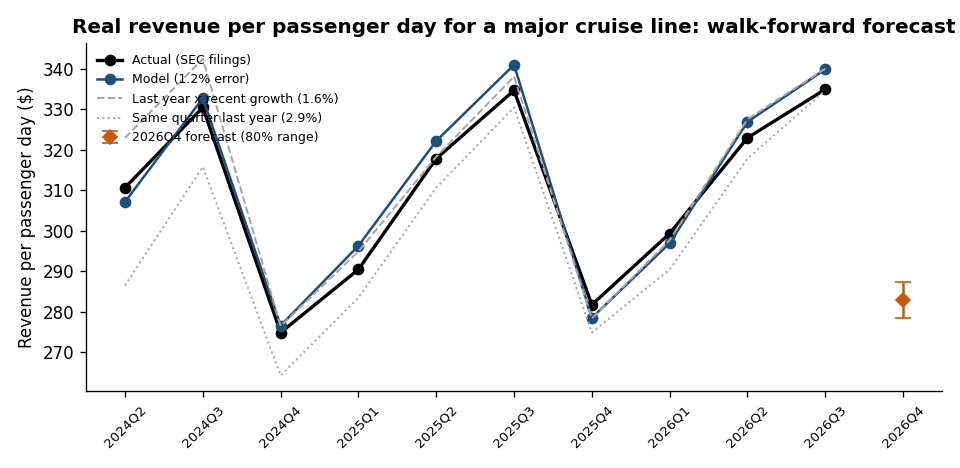
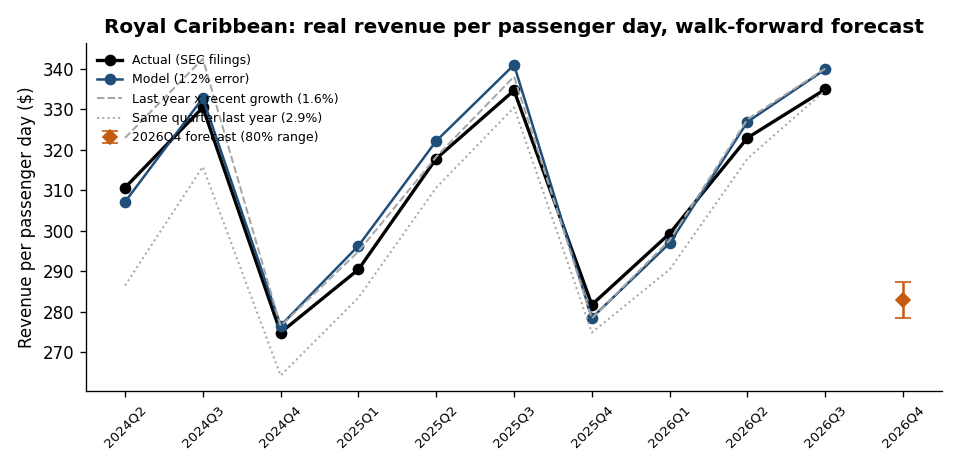
Cruise project: name the real data sources and companies
Adds a Where the data comes from section (Royal Caribbean, Carnival, Norwegian with SEC CIKs, SEC EDGAR/XBRL, BLS, University of Michigan), the build steps, sample rows and findings, plus the SEC Power BI page and calibration chart.

Changed region(s): [[0.0625, 0.0299, 1.0, 0.0897]]

diff --git a/project3.html b/project3.html
@@ -5,7 +5,7 @@
     <meta charset="UTF-8">
     <meta name="viewport" content="width=device-width, initial-scale=1.0">
     <meta http-equiv="X-UA-Compatible" content="ie=edge">
-    <meta name="description" content="Cruise cabin demand forecasting and a pricing A/B test on 510K synthetic bookings calibrated to real SEC filings, built with Python, XGBoost, SQL and Power BI. A project by Jonathan Velez.">
+    <meta name="description" content="Cruise revenue forecasting on real SEC data from Royal Caribbean, Carnival and Norwegian, plus demand forecasting and a pricing A/B test on 510K calibrated bookings, built with Python, XGBoost, SQL and Power BI. A project by Jonathan Velez.">
     <meta name="author" content="Jonathan Velez">
     <script>try{var t=localStorage.getItem('jv-theme');if(t)document.documentElement.setAttribute('data-theme',t);}catch(e){}</script>
     <title>Cruise Cabin Pricing &amp; Demand Forecasting | Jonathan Velez</title>
@@ -13,9 +13,9 @@
     <link rel="icon" href="favicon.svg" type="image/svg+xml">
     <meta property="og:type" content="website">
     <meta property="og:title" content="Cruise Cabin Pricing &amp; Demand Forecasting | Jonathan Velez">
-    <meta property="og:description" content="Cruise cabin demand forecasting and a pricing A/B test on 510K synthetic bookings calibrated to real SEC filings, built with Python, XGBoost, SQL and Power BI. A project by Jonathan Velez.">
+    <meta property="og:description" content="Cruise revenue forecasting on real SEC data from Royal Caribbean, Carnival and Norwegian, plus demand forecasting and a pricing A/B test on 510K calibrated bookings, built with Python, XGBoost, SQL and Power BI. A project by Jonathan Velez.">
     <meta property="og:url" content="https://jonathanwvelez.com/project3.html">
-    <meta property="og:image" content="https://jonathanwvelez.com/assets/img/cruise_error_by_horizon.png">
+    <meta property="og:image" content="https://jonathanwvelez.com/assets/img/cruise_real_forecast.png">
     <script>if(location.protocol==='http:'&&!/^(localhost|127\.0\.0\.1)$/.test(location.hostname)){location.replace('https://'+location.host+location.pathname+location.search+location.hash);}</script>
     <link rel="stylesheet" href="assets/css/color.css">
     <link href="https://fonts.googleapis.com/css?family=Roboto|Roboto+Mono|Inconsolata" rel="stylesheet">
@@ -115,40 +115,44 @@
                             <li>GitHub Actions</li>
                         </ul>
                     </div>
-                    <p>An end-to-end revenue management project for a cruise line. Cruise lines don't publish booking-level data, so the project generates about 510,000 synthetic bookings with seasonality, booking curves, dynamic pricing and cancellations, and calibrates them to real quarterly numbers from three major cruise lines' SEC filings. No real booking data is used, and the project isn't affiliated with any company.</p>
+                    <p>An end-to-end revenue management project for a cruise line, built on <strong>real public data from Royal Caribbean, Carnival and Norwegian</strong>. Ten years of their SEC filings drive a real-data forecast of Royal Caribbean's revenue per passenger day, and calibrate about 510,000 synthetic bookings. Cruise lines don't publish individual bookings, so the booking-level data is generated and tuned to match the real quarterly numbers. The project isn't affiliated with any of these companies.</p>
                     <h3>What it does</h3>
                     <ul class="article__list">
-                        <li>Pulls ten years of quarterly occupancy, passenger cruise days and revenue from three cruise lines' 10-Q and 10-K filings (SEC EDGAR), and tunes the synthetic data to match.</li>
-                        <li>Forecasts a major cruise line's <strong>real</strong> quarterly revenue per passenger day from its SEC filings plus BLS airfare prices, unemployment and University of Michigan consumer sentiment, tested one quarter at a time.</li>
-                        <li>Cleans the raw bookings with a pandas ETL pipeline (510,409 rows in, 509,320 out) and logs every data-quality rule it applies.</li>
+                        <li>Pulls <strong>102 quarters</strong> of real operating data (passengers, passenger cruise days, capacity, occupancy and revenue) from about 130 Royal Caribbean, Carnival and Norwegian 10-Q and 10-K filings on SEC EDGAR.</li>
+                        <li>Forecasts <strong>Royal Caribbean's real quarterly revenue per passenger day</strong> from those filings plus BLS airfare prices, the U.S. unemployment rate and University of Michigan consumer sentiment, tested one quarter at a time.</li>
+                        <li>Cleans the synthetic bookings with a pandas ETL pipeline (510,409 rows in, 509,320 out) and logs every data-quality rule it applies.</li>
                         <li>Answers reporting questions in SQL with DuckDB: occupancy, revenue per cabin, new vs. repeat guests, and price by booking window.</li>
                         <li>Forecasts final occupancy for every sailing and cabin category with XGBoost, tested on the most recent six months of sailings.</li>
                         <li>Runs a pricing A/B test with CUPED variance reduction and a power analysis.</li>
-                        <li>Presents everything in a 5-page Power BI dashboard, and reruns the whole pipeline every week with GitHub Actions.</li>
+                        <li>Presents everything in a 6-page Power BI dashboard, and reruns the whole pipeline every week with GitHub Actions.</li>
                     </ul>
                     <h3>Results</h3>
                     <ul class="article__list">
-                        <li>The synthetic load factor is <strong>within about 2 points of the real reported occupancy</strong> in every quarter: ships sail 107–112% full year-round, and seasonality shows up in price, not empty cabins.</li>
-                        <li>On real 2024–2026 quarters it never saw, the real-data forecast has <strong>1.2% error</strong>, vs. 1.6% for a trend baseline and 2.9% for same-quarter-last-year. Its settings are chosen only from earlier quarters, so the test never tuned the model.</li>
-                        <li><strong>Forecast error of 3.3% vs. 8.0%</strong> for the last-year-pace baseline, 58% lower. Six months out, it's 4.0% vs. 17.6%.</li>
-                        <li>The pricing test (+5% when a cabin category is at least 70% booked 60 days out) showed <strong>no significant lift</strong> (p = 0.43), so the recommendation is not to roll it out broadly.</li>
-                        <li>CUPED cut the test's variance by 93%.</li>
+                        <li>On real 2024&ndash;2026 quarters it never saw, the Royal Caribbean forecast has <strong>1.2% error</strong>, vs. 1.6% for a trend baseline and 2.9% for same-quarter-last-year. Its settings are chosen only from earlier quarters, so the test never tuned the model. <strong>Q4 2026 forecast: $283 per passenger day</strong> (80% range $278&ndash;$287).</li>
+                        <li><strong>Royal Caribbean's revenue per passenger day is up 27% since 2019</strong> ($244 &rarr; $310), while its occupancy stayed around 108&ndash;110%. Growth came from pricing, not from filling more cabins.</li>
+                        <li>The synthetic load factor is <strong>within about 2 points of Royal Caribbean's reported occupancy</strong> in every quarter (109.2% vs. 108.4% for the year).</li>
+                        <li><strong>Booking forecast error of 3.3% vs. 8.0%</strong> for the last-year-pace baseline, 58% lower. Six months out, it's 4.0% vs. 17.6%.</li>
+                        <li>The pricing test (+5% when a cabin category is at least 70% booked 60 days out) showed <strong>no significant lift</strong> (p = 0.43), so the recommendation is not to roll it out broadly. CUPED cut the test's variance by 93%.</li>
                     </ul>
                     <figure class="article__figure--chart">
+                        <img src="assets/img/cruise_real_forecast.png" alt="Chart: Royal Caribbean's real quarterly revenue per passenger day vs. the model's one-quarter-ahead forecasts and two baselines, 2024 to 2026, plus the Q4 2026 forecast" loading="lazy">
+                        <figcaption>Royal Caribbean: real revenue per passenger day vs. the model and two baselines, plus the Q4 2026 forecast</figcaption>
+                    </figure>
+                    <figure class="article__figure--chart">
+                        <img src="assets/img/cruise_powerbi_sec.jpg" alt="Power BI page: occupancy and revenue per passenger day by quarter for Royal Caribbean, Carnival and Norwegian, and the synthetic vs. real calibration" loading="lazy">
+                        <figcaption>Power BI: real SEC data for Royal Caribbean, Carnival and Norwegian, 2016&ndash;2026</figcaption>
+                    </figure>
+                    <figure class="article__figure--chart">
                         <img src="assets/img/cruise_powerbi_overview.jpg" alt="Power BI dashboard: cruise revenue overview with occupancy, load factor and seasonality" loading="lazy">
-                        <figcaption>Power BI dashboard: revenue overview</figcaption>
+                        <figcaption>Power BI: revenue overview of the booking-level data</figcaption>
                     </figure>
                     <figure class="article__figure--chart">
                         <img src="assets/img/cruise_seasonality.png" alt="Chart: cabins sold stay near full every month while price per cabin-night swings with the season" loading="lazy">
                         <figcaption>Ships stay nearly full all year; price carries the seasonality</figcaption>
                     </figure>
                     <figure class="article__figure--chart">
-                        <img src="assets/img/cruise_real_forecast.png" alt="Chart: real quarterly revenue per passenger day vs. the model's one-quarter-ahead forecasts and two baselines" loading="lazy">
-                        <figcaption>Real-data forecast vs. two simple baselines, plus the next-quarter forecast</figcaption>
-                    </figure>
-                    <figure class="article__figure--chart">
                         <img src="assets/img/cruise_error_by_horizon.png" alt="Bar chart of forecast error by days before sailing, model vs. baseline" loading="lazy">
-                        <figcaption>Forecast error by how far ahead the forecast is made</figcaption>
+                        <figcaption>Booking forecast error by how far ahead the forecast is made</figcaption>
                     </figure>
                     <figure class="article__figure--chart">
                         <img src="assets/img/cruise_pace_example.png" alt="Line chart of booking pace for one sailing compared with last year" loading="lazy">
@@ -158,8 +162,83 @@
                         <img src="assets/img/cruise_experiment_lift.png" alt="Chart of the pricing A/B test lift with confidence intervals" loading="lazy">
                         <figcaption>Pricing A/B test result</figcaption>
                     </figure>
+
+                    <h3 id="data">Where the data comes from</h3>
+                    <p>Every number below is public and can be traced to its filing. The full write-up, with every source URL, field definition and processing step, is in <a href="https://github.com/JonathanVelez-code/cruise-pricing-forecast/blob/main/docs/DATA_SOURCES.md" target="_blank" rel="noopener noreferrer">DATA_SOURCES.md</a> on GitHub.</p>
+                    <h4>Companies</h4>
+                    <div class="data-table">
+                    <table>
+                        <thead><tr><th>Company</th><th>Ticker</th><th>SEC CIK</th><th>Main brands</th><th>Capacity metric</th><th>Quarters</th></tr></thead>
+                        <tbody>
+                            <tr><td><strong>Royal Caribbean Cruises Ltd.</strong></td><td>RCL</td><td>0000884887</td><td>Royal Caribbean International, Celebrity, Silversea</td><td>APCD</td><td>39 (Q1 2017 &ndash; Q3 2026)</td></tr>
+                            <tr><td><strong>Norwegian Cruise Line Holdings Ltd.</strong></td><td>NCLH</td><td>0001513761</td><td>Norwegian, Oceania, Regent Seven Seas</td><td>Capacity Days</td><td>34 (Q1 2016 &ndash; Q3 2026)</td></tr>
+                            <tr><td><strong>Carnival Corporation &amp; plc</strong></td><td>CCL</td><td>0000815097</td><td>Carnival, Princess, Holland America, AIDA, Costa, P&amp;O, Cunard, Seabourn</td><td>ALBDs</td><td>29 (Aug 2016 &ndash; Aug 2026)</td></tr>
+                        </tbody>
+                    </table>
+                    </div>
+                    <p>102 company-quarters in total, 83 of them normal operations. The 19 quarters from March 2020 to December 2022, when sailings were suspended and then ramped back up, are flagged and left out of averages and models.</p>
+                    <h4>Sources</h4>
+                    <div class="data-table">
+                    <table>
+                        <thead><tr><th>Source</th><th>What it provides</th><th>Coverage</th></tr></thead>
+                        <tbody>
+                            <tr><td><strong>SEC EDGAR</strong> 10-Q and 10-K filings</td><td>Operating statistics: passengers carried, passenger cruise days, capacity days, occupancy</td><td>About 130 filings, 2016&ndash;2026</td></tr>
+                            <tr><td><strong>SEC XBRL</strong> company facts API</td><td>Total revenue per quarter</td><td>2016 &ndash; Q3 2026</td></tr>
+                            <tr><td><strong>U.S. Bureau of Labor Statistics</strong></td><td>CPI for airline fares (<code>CUSR0000SETG01</code>) and the unemployment rate (<code>LNS14000000</code>)</td><td>Monthly, Jan 2015 &ndash; Oct 2026</td></tr>
+                            <tr><td><strong>University of Michigan</strong> Surveys of Consumers</td><td>Index of Consumer Sentiment</td><td>Monthly, Jan 2014 &ndash; Nov 2026</td></tr>
+                        </tbody>
+                    </table>
+                    </div>
+                    <h4>How the real dataset is built</h4>
+                    <ol class="article__list">
+                        <li><strong>List and download</strong> every 10-Q and 10-K since 2016 for each company from SEC EDGAR, and cache them locally (about 250 MB).</li>
+                        <li><strong>Parse the operating statistics tables:</strong> the rows for passengers carried, passenger cruise days (PCD), capacity (APCD, ALBDs or Capacity Days) and occupancy.</li>
+                        <li><strong>Handle units:</strong> Carnival reports in millions in recent filings and thousands in older ones, so each row's unit label is read and the numbers are scaled. Older Carnival filings don't report PCD, so it's calculated as occupancy &times; capacity.</li>
+                        <li><strong>Build the fourth quarter:</strong> annual reports only give full-year totals, so Q4 = full year (10-K) &minus; the first nine months (Q3 10-Q year-to-date). This added 18 fourth quarters.</li>
+                        <li><strong>Add revenue</strong> from the XBRL API, combining three revenue tags because the tag changed with the 2018 accounting rules.</li>
+                        <li><strong>Check quality:</strong> drop any quarter whose reported occupancy doesn't equal PCD &divide; capacity within 2 points. This caught one misread row (Norwegian Q3 2022).</li>
+                        <li><strong>Flag COVID-19 quarters</strong> and save one row per company per quarter.</li>
+                    </ol>
+                    <h4>What the data looks like: latest quarter for each company</h4>
+                    <div class="data-table">
+                    <table>
+                        <thead><tr><th>Company</th><th>Quarter ending</th><th>Passengers</th><th>Passenger cruise days</th><th>Capacity days</th><th>Occupancy</th><th>Revenue</th><th>Revenue per passenger day</th></tr></thead>
+                        <tbody>
+                            <tr><td>Royal Caribbean</td><td>Sep 30, 2026</td><td>2,676,480</td><td>16,692,392</td><td>14,844,688</td><td>112.4%</td><td>$5.59B</td><td>$334.94</td></tr>
+                            <tr><td>Norwegian</td><td>Sep 30, 2026</td><td>983,214</td><td>7,204,938</td><td>6,766,454</td><td>106.5%</td><td>$2.95B</td><td>$408.99</td></tr>
+                            <tr><td>Carnival</td><td>Aug 31, 2026</td><td>3.9M</td><td>27.9M</td><td>24.9M</td><td>111.8%</td><td>$8.44B</td><td>$302.33</td></tr>
+                        </tbody>
+                    </table>
+                    </div>
+                    <p>Occupancy above 100% is normal for cruise lines: capacity counts two guests per cabin, and some cabins hold three or four.</p>
+                    <h4>What the real data shows: 2019 vs. the last four quarters</h4>
+                    <div class="data-table">
+                    <table>
+                        <thead><tr><th>Company</th><th>Occupancy</th><th>Revenue per passenger day</th><th>Change</th></tr></thead>
+                        <tbody>
+                            <tr><td><strong>Royal Caribbean</strong></td><td>108.1% &rarr; 109.7%</td><td>$243.8 &rarr; $309.7</td><td><strong>+27%</strong></td></tr>
+                            <tr><td>Norwegian</td><td>107.4% &rarr; 103.6%</td><td>$312.7 &rarr; $376.0</td><td>+20%</td></tr>
+                            <tr><td>Carnival</td><td>107.7% &rarr; 105.1%</td><td>$225.3 &rarr; $267.9</td><td>+19%</td></tr>
+                        </tbody>
+                    </table>
+                    </div>
+                    <p>Royal Caribbean grew revenue per guest-day the most of the three, while keeping its ships at least as full as in 2019. That growth is the work of pricing and revenue management.</p>
+                    <h4>How the real data is used</h4>
+                    <ul class="article__list">
+                        <li><strong>Real-data forecast:</strong> predicts next quarter's revenue per passenger day from the same quarter last year, recent growth, seasonality, and the economic indicators lagged one quarter, so only information available beforehand is used. The model is a damped growth trend plus a ridge-regression adjustment, tested walk-forward on Q2 2024 &ndash; Q3 2026 (28 company-quarters, 10 of them Royal Caribbean), with its settings chosen by a nested walk-forward inside the training data.</li>
+                        <li><strong>Calibration:</strong> the synthetic booking generator was tuned until its quarterly load factor matched the filings: Q1 108.9% vs. Royal Caribbean's 107.0%, Q2 109.7% vs. 108.5%, Q3 111.8% vs. 111.2%, Q4 106.4% vs. 106.9%.</li>
+                    </ul>
+                    <figure class="article__figure--chart">
+                        <img src="assets/img/cruise_calibration_vs_sec.png" alt="Bar chart: synthetic load factor by quarter compared with Royal Caribbean, Norwegian and Carnival reported occupancy" loading="lazy">
+                        <figcaption>Calibration: synthetic load factor vs. real reported occupancy by quarter</figcaption>
+                    </figure>
                     <h3>Limits</h3>
-                    <p>The guests' response to price in the A/B test is simulated, so it demonstrates the method rather than a real result. A real lift would need a live test.</p>
+                    <ul class="article__list">
+                        <li>The SEC data is quarterly and company-wide. It doesn't show individual sailings, ships or cabin prices, which is why the booking-level analysis uses calibrated synthetic data.</li>
+                        <li>Revenue per passenger day (total revenue &divide; passenger cruise days) is a close stand-in for the companies' own Net Yield, but not identical.</li>
+                        <li>Carnival's fiscal quarters end in February, May, August and November, and are matched to the nearest calendar quarter.</li>
+                        <li>The guests' response to price in the A/B test is simulated, so it demonstrates the method rather than a real result.</li>
+                    </ul>
                 </div>
             </div>
         </div>

diff --git a/assets/css/custom.css b/assets/css/custom.css
@@ -316,3 +316,46 @@
     margin-top: 20px;
   }
 }
+
+/* ---------- Data tables on project pages ---------- */
+.article h4 {
+  font-family: 'Roboto Mono', monospace;
+  font-size: 15px;
+  font-weight: 700;
+  margin: 24px 0 10px;
+}
+
+.article .data-table {
+  overflow-x: auto;
+  -webkit-overflow-scrolling: touch;
+  margin-bottom: 16px;
+}
+
+.article .data-table table {
+  width: 100%;
+  border-collapse: collapse;
+  font-size: 14px;
+  line-height: 1.45;
+}
+
+.article .data-table th,
+.article .data-table td {
+  padding: 8px 10px;
+  border-bottom: 1px solid #e6e6e6;
+  text-align: left;
+  vertical-align: top;
+}
+
+.article .data-table th {
+  border-bottom: 2px solid var(--accent, #6d56c1);
+  white-space: nowrap;
+}
+
+.article .data-table code {
+  font-size: 12px;
+}
+
+.article ol.article__list {
+  list-style: decimal;
+  padding-left: 24px;
+}
